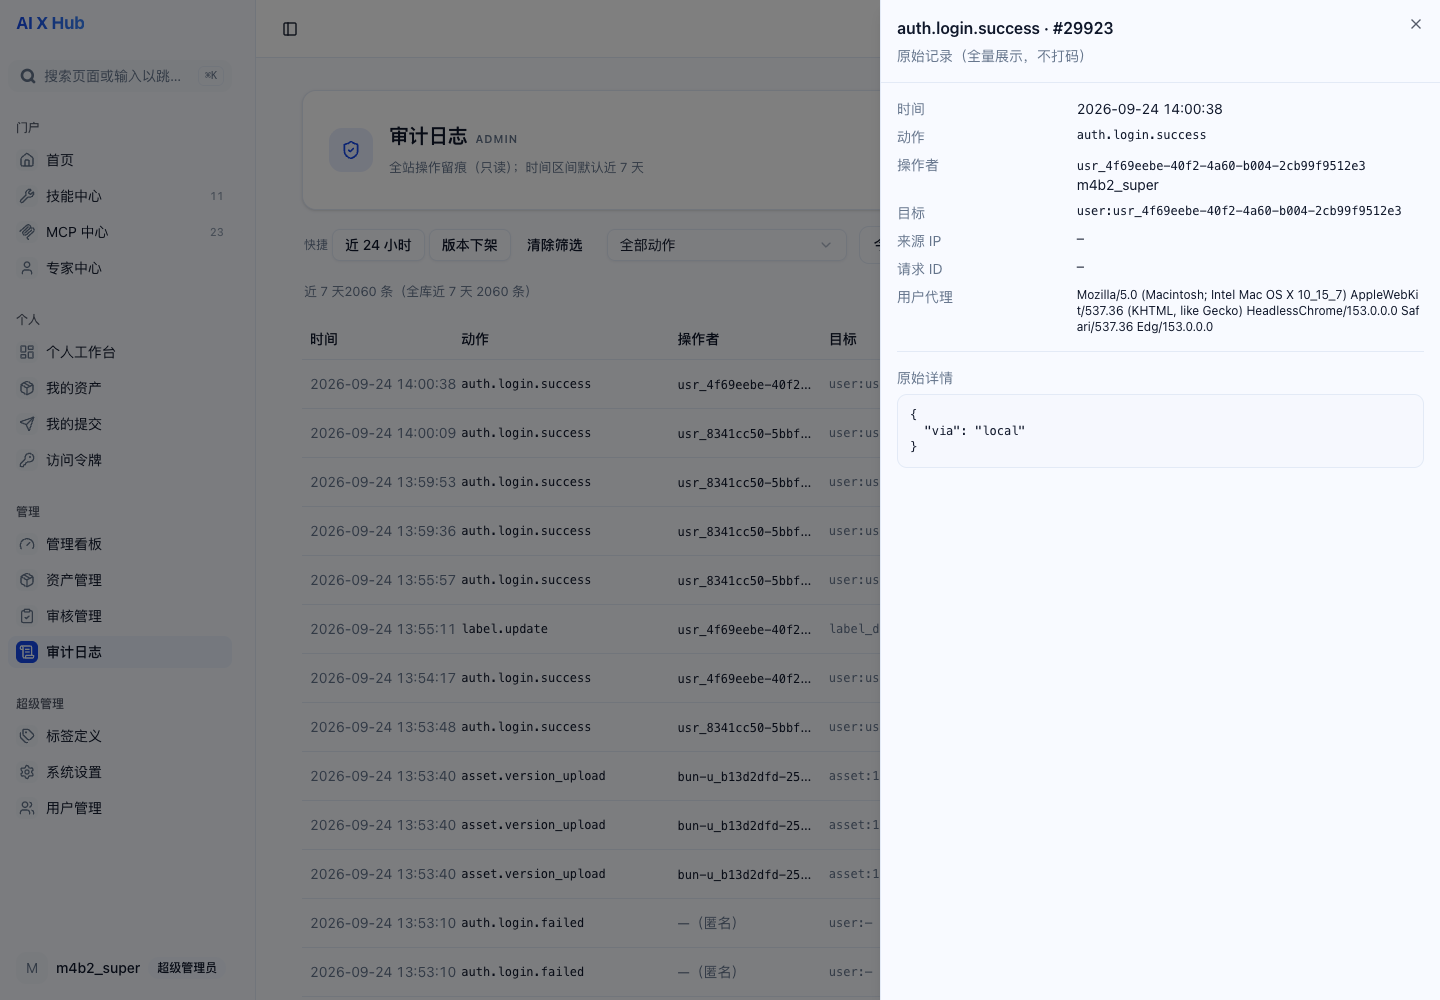
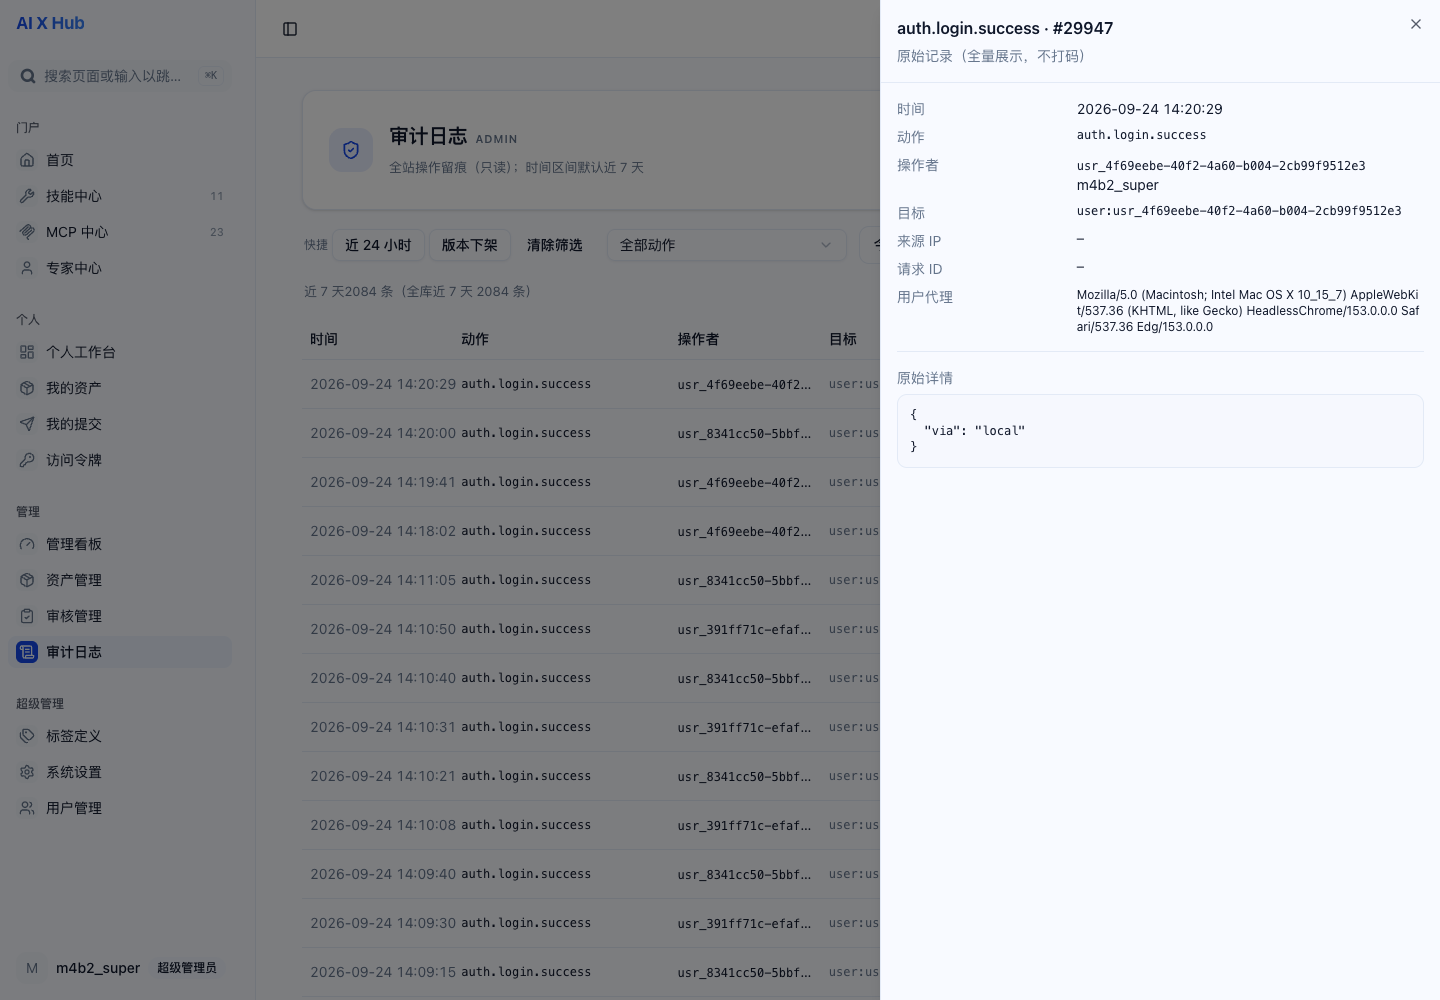
fix(web): F214 标签删除前置补「有子标签」—— 与服务端两条拒删路径同面 + dogfood G8.6 数据自适应双例
· 缺陷（F212 同类 · 潜在）：服务端 `deleteLabel` 的拒绝路径**有两条且有序**（① 有子标签 `label.parent.has_children`
  ② 任一状态挂载 `label.in_use`），UI 只前置了 ② ⇒「**有子标签 + 零挂载**」时弹窗说「未挂载任何资产，删除后不可恢复」、
  确认钮可点，点删被 400 拒绝（真库当前不可复现：唯一父标签 `agentic` 同时有挂载 ⇒ 先被 ② 挡住）
· 前端：`delTarget` 类型改吃 `TreeRow`（读 `hasChildren`）· 弹窗**四支文案**（优先级同服务端：子级 → 挂载〔已发布 /
  含隐藏归档〕→ 无挂载）· 禁用条件 = `hasChildren || mountCountAny > 0`（= 服务端两条拒绝路径的完整前置）
  · 顺手去掉 2 处 `as unknown as` 双重断言 · i18n +1 键 `labels.delete.hasChildren`（叶子键 526 → **527** · 本批 +123）
· dogfood：**G8.6 由「写死第一行」重写为数据自适应双例**（按数据特征挑行）——
  「有子标签」(`agentic`) ⇒ 文案「存在子标签，请先删除子标签」+ 确认钮禁用；「零子级有挂载」(`m4b4-seed-privileged`)
  ⇒ 文案「已挂载 1 个已发布资产」+ 解挂指引 + 禁用。**反证**：翻掉文案期望 ⇒ FAIL（跑完已还原 · sha256 一致）
· 全量 dogfood **90 → 91 PASS / 0 FAIL / 超时 0** · `labels.test.ts` 20 pass / 0 fail
· 文档：批 design **v0.36**（§4.3 删除行四支 · §9.7 F214 · 修订表/头部）· 证据 §2 / §5 / §8
  （§8 环境备注追根为 **F215**：`zh-cn` 行匹配不到 zh ⇒ 门户 chip 回退英文，与本批代码无关）
· 门禁：typecheck · lint · format:check · doc-audit 111/0 · doc-claims 46/0（新锚 527 / 123 生效）

diff --git a/apps/web/src/pages/AdminLabels.tsx b/apps/web/src/pages/AdminLabels.tsx
@@ -6,8 +6,9 @@
  * ② **两级严格树**：一级缩进 0 · 二级 **28px + 2px 引导线**（`border-l-2`）· **chevron 仅在有子级的一级行** · 默认折叠
  * ③ 六列：显示名（zh）· slug · 类型徽标 · 过滤可见 · **挂载数**（可点 → `/admin/assets?label=<slug>`）· 操作
  * ④ 行内动作：↑↓（**首/末禁用** · 一次 `PUT /order` 提交整组）· 编辑 · 删除
- * ⑤ 删除确认：**任一状态**有挂载（`mountCountAny` · F212）⇒ 确认钮禁用 + 解挂指引（服务端 400
- *    `label.in_use` 语义前置）；仅已发布挂载与含隐藏/归档两种情形给不同文案（`assetCount` 只算已发布）
+ * ⑤ 删除确认（F212 + F214）：禁用条件 = **有子标签**(`hasChildren`) **或** 任一状态有挂载(`mountCountAny`)
+ *    —— 与服务端 `deleteLabel` 的两条拒绝路径（`label.parent.has_children` → `label.in_use`）**逐条同面**；
+ *    文案按同一优先级四分支（有子级 / 有已发布挂载 / 仅隐藏归档挂载 / 无挂载）
  * ⑥ 创建/编辑对话框（同一对话框两态）：slug（创建后禁改）· 类型 · 父级 · 中/英文名 · **过滤可见开关（默认打开）**
  */
 
@@ -114,7 +115,8 @@ export default function AdminLabels() {
   const [expanded, setExpanded] = useState<Record<number, boolean>>({});
   const [dirty, setDirty] = useState(false);
   const [busy, setBusy] = useState(false);
-  const [delTarget, setDelTarget] = useState<ManagedLabelRow | null>(null);
+  // F214：弹窗目标改吃 `TreeRow`（= 行 + 层级信息）—— 删除前置条件需要 `hasChildren`（服务端两条拒绝路径之一）
+  const [delTarget, setDelTarget] = useState<TreeRow | null>(null);
   const [formOpen, setFormOpen] = useState(false);
   const [editing, setEditing] = useState<ManagedLabelRow | null>(null);
   const [form, setForm] = useState({
@@ -246,7 +248,7 @@ export default function AdminLabels() {
     setFormOpen(true);
   };
 
-  const openEdit = (row: ManagedLabelRow) => {
+  const openEdit = (row: TreeRow) => {
     setEditing(row);
     setForm({
       slug: row.slug,
@@ -419,7 +421,7 @@ export default function AdminLabels() {
                     size="icon"
                     variant="ghost"
                     aria-label={t('admin', 'labels.edit')}
-                    onClick={() => openEdit(r as unknown as ManagedLabelRow)}
+                    onClick={() => openEdit(r)}
                   >
                     <Pencil className="size-4" aria-hidden />
                   </Button>
@@ -427,7 +429,7 @@ export default function AdminLabels() {
                     size="icon"
                     variant="ghost"
                     aria-label={t('admin', 'labels.delete')}
-                    onClick={() => setDelTarget(r as unknown as ManagedLabelRow)}
+                    onClick={() => setDelTarget(r)}
                   >
                     <Trash2 className="size-4" aria-hidden />
                   </Button>
@@ -452,15 +454,20 @@ export default function AdminLabels() {
           <DialogHeader>
             <DialogTitle>{t('admin', 'labels.delete.title')}</DialogTitle>
             <DialogDescription>
-              {delTarget && delTarget.mountCountAny > 0
-                ? delTarget.assetCount > 0
-                  ? t('admin', 'labels.delete.inUse', { n: delTarget.assetCount })
-                  : t('admin', 'labels.delete.inUseHidden', { n: delTarget.mountCountAny })
-                : t('admin', 'labels.delete.unrecoverable')}
+              {/* F214：文案按**服务端判定顺序**分四支（有子级 ⇒ 任一状态挂载 ⇒ 已发布挂载 ⇒ 无挂载） */}
+              {delTarget && delTarget.hasChildren
+                ? t('admin', 'labels.delete.hasChildren')
+                : delTarget && delTarget.mountCountAny > 0
+                  ? delTarget.assetCount > 0
+                    ? t('admin', 'labels.delete.inUse', { n: delTarget.assetCount })
+                    : t('admin', 'labels.delete.inUseHidden', { n: delTarget.mountCountAny })
+                  : t('admin', 'labels.delete.unrecoverable')}
             </DialogDescription>
           </DialogHeader>
           <p className="text-xs text-muted-foreground">
-            {delTarget && delTarget.mountCountAny > 0 ? t('admin', 'labels.delete.detachHint') : ''}
+            {delTarget && !delTarget.hasChildren && delTarget.mountCountAny > 0
+              ? t('admin', 'labels.delete.detachHint')
+              : ''}
           </p>
           <DialogFooter>
             <Button variant="outline" onClick={() => setDelTarget(null)}>
@@ -468,7 +475,10 @@ export default function AdminLabels() {
             </Button>
             <Button
               variant="destructive"
-              disabled={busy || (delTarget?.mountCountAny ?? 0) > 0}
+              // F214：禁用条件 = 服务端**两条**拒绝路径的完整前置（有子标签 · 任一状态挂载）
+              disabled={
+                busy || (delTarget?.hasChildren ?? false) || (delTarget?.mountCountAny ?? 0) > 0
+              }
               onClick={confirmDelete}
             >
               {t('admin', 'labels.delete.ok')}

diff --git a/docs/smoke/scripts/m4b6-governance-dogfood.ts b/docs/smoke/scripts/m4b6-governance-dogfood.ts
@@ -599,43 +599,64 @@ if (want('G8')) {
   const disabled = await evalJs("document.querySelectorAll('button[disabled]').length");
   ok('G8.4 首行 ↑ 禁用（存在 disabled 按钮）', (disabled ?? 0) >= 1, `disabled=${disabled}`);
   // F212：出参双口径（`assetCount` = 仅已发布 · `mountCountAny` = 任一状态 · 恒 ≥）
-  const rows = (api.body?.items ?? []) as Array<{ assetCount: number; mountCountAny: number }>;
+  const rows = (api.body?.items ?? []) as Array<{
+    slug: string;
+    parentId: string | null;
+    assetCount: number;
+    mountCountAny: number;
+  }>;
   ok(
     'G8.5 出参带 mountCountAny 且逐行 ≥ assetCount（F212）',
     rows.length > 0 &&
       rows.every((r) => typeof r.mountCountAny === 'number' && r.mountCountAny >= r.assetCount),
     `rows=${rows.length} 首行=${JSON.stringify(rows[0])}`,
   );
-  // F212：删除确认的软件前置 —— 有（任一状态）挂载 ⇒ 确认钮禁用 + 文案讲清已发布/含隐藏归档
-  await evalJs(
-    `(() => { const b = [...document.querySelectorAll('button[aria-label]')].find((x) => (x.getAttribute('aria-label') || '').includes('删除')); if (b) b.click(); return !!b; })()`,
-  );
-  await sleep(900);
-  const dlg = await evalJs(`(() => {
-    const d = document.querySelector('[role=dialog]');
-    if (!d) return null;
-    // 官方 Dialog 末尾另有 sr-only 的 Close 钮 ⇒ 按文案取「最后一个含『删除』的按钮」（= 确认删除）
-    const confirm = [...d.querySelectorAll('button')]
-      .filter((b) => (b.textContent || '').includes('删除'))
-      .pop();
-    return {
-      text: (d.textContent || '').replace(/\s+/g, ' ').trim().slice(0, 140),
-      confirmText: (confirm?.textContent || '').trim(),
-      confirmDisabled: confirm ? confirm.disabled : null,
-    };
-  })()`);
-  const mounted = rows.some((r) => r.mountCountAny > 0);
-  ok(
-    'G8.6 删除确认：任一状态有挂载 ⇒ 确认钮禁用 + 文案讲清口径（F212）',
-    !!dlg &&
-      (dlg?.confirmText ?? '').includes('删除') &&
-      (mounted ? dlg.confirmDisabled === true : dlg.confirmDisabled === false) &&
-      (dlg?.text ?? '').includes(mounted ? '已发布资产' : '未挂载任何资产'),
-    JSON.stringify(dlg),
-  );
-  await evalJs(
-    `(() => { const d = document.querySelector('[role=dialog]'); const b = d && [...d.querySelectorAll('button')].find((x) => (x.textContent || '').trim() === '取消'); if (b) b.click(); return !!b; })()`,
-  );
+  // F212 + F214：删除确认的**软件前置** = 服务端两条拒绝路径（① 有子标签 ② 任一状态挂载）+ 文案同优先级。
+  // **按数据特征挑行**（不写死行号 / 不写死标签名 —— F213 同类教训：真库数据一变就换靶）。
+  // 页面树的 `hasChildren` 由行集算（一级且存在子级者）= `parentId` 出现在行集里的 slug。
+  const parentSlugs = new Set(rows.map((r) => r.parentId).filter((x): x is string => !!x));
+  const cases = [
+    { name: '有子标签', row: rows.find((r) => parentSlugs.has(r.slug)), expect: '子标签' },
+    {
+      name: '零子级 · 有挂载',
+      row: rows.find((r) => !parentSlugs.has(r.slug) && r.mountCountAny > 0),
+      expect: '已发布资产',
+    },
+  ].filter((c) => !!c.row);
+  for (const c of cases) {
+    const opened = await evalJs(`(() => {
+      const tr = [...document.querySelectorAll('tbody tr')].find((x) => (x.textContent || '').includes(${JSON.stringify(c.row?.slug ?? '')}));
+      if (!tr) return false;
+      const b = [...tr.querySelectorAll('button[aria-label]')].find((x) => (x.getAttribute('aria-label') || '').includes('删除'));
+      if (b) b.click();
+      return !!b;
+    })()`);
+    await sleep(900);
+    const dlg = await evalJs(`(() => {
+      const d = document.querySelector('[role=dialog]');
+      if (!d) return null;
+      // 官方 Dialog 末尾另有 sr-only 的 Close 钮 ⇒ 取「最后一个含『删除』的按钮」（= 确认删除）
+      const confirm = [...d.querySelectorAll('button')].filter((b) => (b.textContent || '').includes('删除')).pop();
+      return {
+        text: (d.textContent || '').slice(0, 160),
+        confirmText: (confirm?.textContent || '').trim(),
+        confirmDisabled: confirm ? confirm.disabled : null,
+      };
+    })()`);
+    ok(
+      `G8.6 删除确认前置「${c.name}」（slug=${c.row?.slug}）⇒ 确认钮禁用 + 文案命中「${c.expect}」（F212/F214）`,
+      !!opened &&
+        !!dlg &&
+        (dlg?.confirmText ?? '').includes('删除') &&
+        dlg.confirmDisabled === true &&
+        (dlg?.text ?? '').includes(c.expect),
+      JSON.stringify(dlg),
+    );
+    await evalJs(
+      `(() => { const d = document.querySelector('[role=dialog]'); const b = d && [...d.querySelectorAll('button')].find((x) => (x.textContent || '').trim() === '取消'); if (b) b.click(); return !!b; })()`,
+    );
+    await sleep(600);
+  }
   await sleep(500);
   await shot('g8-labels-tree');
 }

diff --git a/docs/smoke/scripts/doc-claims-check.ts b/docs/smoke/scripts/doc-claims-check.ts
@@ -169,7 +169,7 @@ const NUMBERS: { label: string; expected: string; re: RegExp; group?: number; al
     // （首改放宽字符类时实测被它误吞 ⇒ 取值 17 报假红）。判据未放宽：值仍须被声明、且不得出现其它值。
     {
       label: 'i18n 本批新增键数',
-      expected: '122',
+      expected: '123',
       re: /(?:本批|i18n)\s*\*\*\+(\d{2,4})\*{0,2}\s*键/g,
     },
     // F209（2026-09-23 T6⁺ 自检发现）：上一条按**措辞**锚定 ⇒ 只保证「文档多处一致」，**不校验是否等于真值**
@@ -177,7 +177,7 @@ const NUMBERS: { label: string; expected: string; re: RegExp; group?: number; al
     // 口径 = `apps/web/src/i18n/zh.ts` 深层叶子键计数（与 [5] 成对检查同法）与 `board.` 前缀计数。
     {
       label: 'i18n 叶子键绝对值（各 N 键）',
-      expected: '526',
+      expected: '527',
       re: /叶子键\s*\*{0,2}各\s*(\d{3,4})/g,
     },
     {

diff --git a/apps/web/src/i18n/en.ts b/apps/web/src/i18n/en.ts
@@ -429,6 +429,7 @@ export const en: Dict = {
     'labels.delete.title': 'Delete this label?',
     'labels.delete.inUse': 'Attached to {n} published asset(s)',
     'labels.delete.inUseHidden': 'Still attached to {n} asset(s) (incl. hidden/archived)',
+    'labels.delete.hasChildren': 'Has child labels; delete them first',
     'labels.delete.detachHint': 'Detach it from those assets first',
     'labels.delete.ok': 'Delete',
     'labels.delete.unrecoverable': 'This label has no attachments; deleting it cannot be undone',

diff --git a/apps/web/src/i18n/zh.ts b/apps/web/src/i18n/zh.ts
@@ -425,6 +425,7 @@ export const zh = {
     'labels.delete.title': '删除该标签？',
     'labels.delete.inUse': '已挂载 {n} 个已发布资产',
     'labels.delete.inUseHidden': '仍被 {n} 个资产挂载（含已隐藏/已归档）',
+    'labels.delete.hasChildren': '存在子标签，请先删除子标签',
     'labels.delete.detachHint': '请先在资产上解挂',
     'labels.delete.ok': '确认删除',
     'labels.delete.unrecoverable': '该标签未挂载任何资产，删除后不可恢复',

diff --git a/docs/smoke/2026-09-23-m4b6-governance-console.md b/docs/smoke/2026-09-23-m4b6-governance-console.md
@@ -49,7 +49,7 @@
 | G5 | **英雄榜形制**（T6⁺ 重写） | 两榜（员工榜 / 资产榜）· 每榜 **3 竖柱 + 3 柱顶数值** · 类目名**水平多行**（无 -45° 旋转）· 无纵向网格线 · 无副标题/页脚口径行 |
 | G6 | 资产管理页 | 表列 = **10**（含操作槽）· `status=ALL` 含非 ACTIVE · 排序接线（URL 出 `sort`/`dir`） · 隐藏描述列后名称列**等比摊开** |
 | G7 | 详情抽屉 | 抽屉打开（`dialogs=1`）· 含「归属人」 |
-| G8 | 标签定义页（**超管**） | 端点 200 · 上限块在位（`total`/`limit`）· 六列在位 · 首行 ↑ 禁用 · **F212 两条**：出参 `mountCountAny ≥ assetCount` 逐行不变量 · 删除确认（有任一状态挂载 ⇒ 确认钮禁用 + 文案三段口径） |
+| G8 | 标签定义页（**超管**） | 端点 200 · 上限块在位（`total`/`limit`）· 六列在位 · 首行 ↑ 禁用 · **F212 两条**：出参 `mountCountAny ≥ assetCount` 逐行不变量 · 删除确认（有任一状态挂载 ⇒ 确认钮禁用 + 文案三段口径）· **F214 双例**：按数据特征挑「有子级」与「零子级有挂载」两行，分别断言「子标签」/「已发布资产」文案 + 确认钮禁用 |
 | G9 | 审计日志页 | 端点 200 · 六列在位 · 匿名兜底键就位 · 快捷三键在位 · 「更多筛选」在位 · **出参带 `actorName`（F204）** · 抽屉含「用户代理」与「原始详情」 |
 | G10 | 筛选收窄 | 动作过滤 `version_yank ≤ 全量`（全量 **2607** / `yank` **57**）· 页内计数随筛选变化 |
 | G11 | **跨页数字一致** | 资产页页头计数 = 端点 `activeAssets`（**34**）· 看板 KPI 与资产页一致 |
@@ -81,7 +81,7 @@
 | `/api/audit/actions` | 分组 **8 组**（潜在全集 9；`ldap`/`oidc` 尚未出现） |
 | 鉴权（负向 · 实测） | 用户档三端点 **403** · `/api/labels/all` 对 `ADMIN`(10) **403**（仅超管 —— 设计如此） |
 
-## 5. 实施期发现与处置（F203–**F213**）
+## 5. 实施期发现与处置（F203–**F214**）
 
 | 号 | 面 | 问题（真） | 处置 |
 |----|----|-----------|------|
@@ -161,6 +161,7 @@ FAIL G13.15 顶栏 h1 计数 = 0                                ← 旧版顶栏
 |----|----|-----------|------|
 | **F208** | 看板「累计下载」卡副行（`AdminBoard.tsx` + `admin/overview.ts`） | **自检发现（非用户报）**：副行「近 7 天新增 X 次」由**趋势响应切片**算（`points.at(-8)`）⇒ 用户把时间档位切到「近 7 天」时该序列只有 7 个点 ⇒ `at(-8)` 越界取 0 ⇒ 显示**累计总量**。实测双证：30 天档 `20 次`（正确）· 7 天档 `38 次`（错误，真值 20） | **服务端加固定窗口字段** `kpi.downloads7d`（含今天 7 个自然日 · `Asia/Shanghai` 日界，与趋势曲线同口径 · `countDownloadEventsInLastDays` 复用 `shiftDay`/`shanghaiToday`）；前端副行改读该字段 ⇒ **与档位无关**。落点：`trends.ts`（helper）+ `overview.ts`（查询与出参）+ `api/admin.ts` + `AdminBoard.tsx` + `admin.test.ts`（窗口专条：3 天前 2 条计入 / 30 天前 1 条不计 + 独立复算一致）。dogfood **G14.4/G14.5** 守护 |
 | **F208-A** | 排行榜卡头层叠（`AdminBoard.tsx`） | **用户报缺陷**：三口径按钮「人 / 资产 / 标签」**悬浮在顶栏之上**（点击与布局均正常 ⇒ 纯**层叠顺序**缺陷）。根因 = 官方那段按钮类名自带 `relative z-30`（官方 demo 无 sticky 顶栏 ⇒ 无冲突），本仓 TopBar = `sticky top-0 z-20`（F207 定稿形态）⇒ `30 > 20`。全仓实测 `z-30` **仅此一处** | **卡级加 `isolate`**（`isolation:isolate`）把 `z-30` 关进卡片；**官方按钮写法零字符改动**、卡内「按钮压图表」关系保持。正反双证（`elementFromPoint` 同一点）：修前命中 `BUTTON`（`人34`）· 修后命中 `HEADER`。dogfood **G14.6** 守护 |
+| **F214** | 标签定义页删除确认（`AdminLabels.tsx`） | **收口复核发现（2026-09-24 · F212 同类）**：服务端 `deleteLabel` 的两条拒绝路径**有序**（① 有子标签 `label.parent.has_children` ② 任一状态挂载 `label.in_use`），UI 只前置了 ② ⇒ 「**有子标签 + 零挂载**」会「说可删、点删被拒」（真库不可复现：唯一父标签 `agentic` 同时有挂载） | `delTarget` 改吃 `TreeRow`（顺带去 2 处 `as unknown as` 双重断言）· 弹窗四支文案（优先级同服务端）· 禁用条件补 `hasChildren` · dogfood **G8.6 数据自适应双例**（按数据特征挑行，不写死行号）· i18n +1 键（叶子键 **527** · 本批 **+123**） |
 | **F213** | 门禁脚本 G3.5（`m4b6-governance-dogfood.ts`） | **自测试发现（2026-09-24 · 假红）**：断言「扇区填色 == 图例填色」用**长度相等** ⇒ 真库出现 **0 计数值的一级标签**（手动建的 `software`/`hardware`）时，图例列全行（4）而环图**不渲染 0 长度扇区**（recharts 行为，同「零高柱不渲染 rectangle」族）⇒ 扇区 2 ≠ 图例 4 ⇒ 假红（**非代码回归**） | 改**数据感知**：行序基准 = `overview.labels[]`；扇区期望 = `count > 0` 行的图例色（按序）；补「图例行数 = 一级标签行数」「雷达点数 = 行数」⇒ 更健壮且更强。反证：扇区期望错位 1 位 ⇒ FAIL |
 | **F212** | 标签定义页删除确认（`AdminLabels.tsx`）+ `GET /api/labels/all` | **收口复核发现（2026-09-24）**：`assetCount` 改「仅 `ACTIVE`」后与删除守卫（任一状态拒删）之间缺 UI 前置 ⇒ 标签只挂 `HIDDEN`/`ARCHIVED` 时页面显示「未挂载任何资产」、删除钮可点，点删 400 `label.in_use`。**真库现状：该状态 0 条**（实测 SQL）⇒ 潜在缺陷（治理动作会把它变现实） | `/all` 加性补 **`mountCountAny`**（任一状态 · 恒 ≥ `assetCount`）· 标签页禁用条件 + 三段文案 · 服务端用例（仅挂 HIDDEN）· dogfood **G8.5/G8.6**（反证：翻期望 ⇒ FAIL） |
 | **F211** | 资产页分页 URL（`AdminAssets.tsx` · design §4.8b） | **收口复核发现（2026-09-24）**：设计 v0.9 拍板「本页跟控制台口径 `limit`/`offset`」，实现走门户 `useMarketQuery` 的 `?page=` ⇒ 拍板未落地 | **改设计**（F211 定案：接受 `?page=`）—— 复用共享 hook 的页码/防抖/竞态/回退同步；强改需给共享 hook 加模式开关 + 回归门户三页，收益远小于风险。§4.2/§4.8b 改写 + 撤回 v0.9 条 + 登记为接受项 |
@@ -241,11 +242,12 @@ FAIL G13.15 顶栏 h1 计数 = 0                                ← 旧版顶栏
 | 7 | **>13 个一级标签的 13 色池循环** | **未实测**（真库仅 2 个一级标签 ⇒ 取色只走到 `--chart-1/2`） | 代码路径为 `index % 13` 常量表取模（无分支）；如需实证须造 ≥14 个标签（写库需授权） |
 | 8 | **F212「仅挂已隐藏/已归档」分支的真页实测** | **未在真页实测**（真库当前该状态 **0 条** · 实测 SQL）—— 服务端用例已覆盖语义（`assetCount 0 / mountCountAny 1 / 删除仍被拒`），前端三分支代码 + dogfood G8.6 覆盖「有已发布挂载」分支 | 若要实证须造一条「仅挂 HIDDEN 资产」的标签（写库需授权） |
 
-> ⚠ **环境备注（2026-09-24 · 自测试）**：真库被**手动编辑**过 —— 新增两条一级标签 `software` / `hardware`
-> （0 计数值 · 13:50 由超管账号创建，仓内代码/测试/seed **无此字面量**）且 `agentic` 的 **zh 显示名被改为「Agentic」**
-> ⇒ 门户口径的 `m4a` dogfood 有 2 条断言（按中文精确匹配 chip「智能体」）因此**FAIL（58/2 → 56/4）**，
-> **与本批代码无关**（`/api/labels` 公开面未改）；其余三脚本 `m4b3 38/3 · m4b4 83/6 · m4b5 52/10` 与 T10 基线**逐项一致**。
-> 建议（待拍板）：把 `m4a` 的 chip 断言改为按 slug 匹配（对显示名漂移免疫）。
+> ⚠ **环境备注（2026-09-24 · 自测试 → 追根为 F215）**：真库新增两条一级标签 `software` / `hardware`（13:50 由超管账号
+> 在管理页创建；仓内代码/测试/seed **无此字面量**）⇒ 其 zh 翻译以 **`zh-cn`** 落库（UI 表单写 `zh-CN`，服务端归一为小写）
+> ⇒ 公开面 `pickDisplayName` 的回退链**只做了「等于主语言 `zh`」的精确匹配、未实现注释承诺的前缀回退** ⇒ 一律落到 `en`
+> ⇒ 门户筛选 chip 显示英文（`agentic` 亦然：其 zh 行同为 `zh-cn`，13:55 经管理页编辑过）
+> ⇒ `m4a` 两条「按中文精确匹配 chip」断言 FAIL（58/2 → **56/4**）。**与本批代码无关**（`/api/labels` 公开面未改）；
+> 其余三脚本 `m4b3 38/3 · m4b4 83/6 · m4b5 52/10` 与 T10 基线**逐项一致**。⇒ 已登记为 **F215**（修法待拍板）。
 
 > **未证项的诚实口径**：本批对既有面的**代码级影响面**已实测收窄（`/api/assets` 管理档加性扩参、非管理档逐条相同；
 > 标签面形态变更无前端消费者；新增表独立）⇒ 21 条失败**逐条**都能归因到前置数据缺失，**没有一条落在本批改动的代码路径上**。
